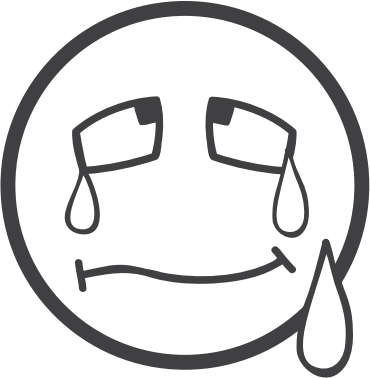
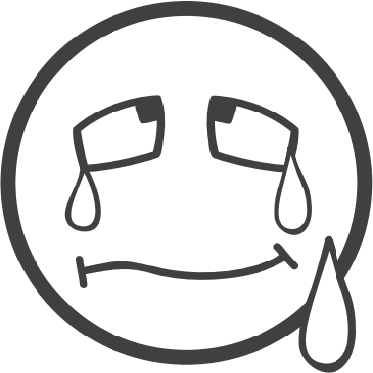
Fixed results calendar smileys to work with the new calendar.

diff --git a/app/assets/stylesheets/results/results.scss b/app/assets/stylesheets/results/results.scss
@@ -43,48 +43,29 @@ div.page {
       background-image: image_url("SmileyON_Sweat.png");
     }
 
-
-    div.fc-event {
-      background-color: transparent;
-      border-color: transparent;
-    }
-
-    div.fc-event.smile-icon div.fc-event-inner
-    {
-      @include size(40px, 40px);
-      background-size: contain;
-    }
-
-    div.fc-event.bored-off div.fc-event-inner
-    {
+    .bored-off {
       background-image: image_url("SmileyFaded_Bored.png");
     }
 
-    div.fc-event.bored-on div.fc-event-inner
-    {
-      background-image: image_url("SmileyON_Bored.png");
-    }
-
-    div.fc-event.happy-off div.fc-event-inner
+    .happy-off
     {
       background-image: image_url("SmileyFaded_Happy.png");
     }
 
-    div.fc-event.happy-on div.fc-event-inner
-    {
-      background-image: image_url("SmileyON_Happy.png");
-    }
-
-    div.fc-event.sweat-off div.fc-event-inner
+    .sweat-off
     {
       background-image: image_url("SmileyFaded_Sweat.png");
     }
 
-    div.fc-event.sweat-on div.fc-event-inner
-    {
-      background-image: image_url("SmileyON_Sweat.png");
+    .fc-event {
+      background-color: transparent;
+      border-color: transparent;
     }
 
+    div.fc-content {
+      @include size(40px, 40px);
+      background-size: contain;
+    }
 
     .calendar-overview {
       padding: 30px;

diff --git a/app/assets/javascripts/results/results.js b/app/assets/javascripts/results/results.js
@@ -64,6 +64,9 @@ angular
         if ($stateParams.id) {
           Measurement.get({id: $stateParams.id}, function (measurement) {
             $scope.selectedTraining = measurement;
+
+            // show the calendar for the selected training date
+            $scope.uiConfig.calendar['defaultDate'] = $scope.selectedTraining.start_time;
             uiCalendarConfig.calendars["myCalendar1"].fullCalendar("render");
 
             $scope.calculateStatistics();
@@ -126,11 +129,13 @@ angular
         //$compile(element)($scope);
 
         var smileyStatus = $scope.selectedTraining && $scope.selectedTraining.id === event.training.id ? "on" : "off";
-        element.addClass(SMILE_LOOKUP[event.training.rating] + "-" + smileyStatus);
+        element.find(".fc-content").addClass(SMILE_LOOKUP[event.training.rating] + "-" + smileyStatus);
+        element.find(".fc-content").empty();
 
       };
       $scope.uiConfig = {
         calendar: {
+          height: 450,
           header: {
             right: 'today prev,next'
           },
